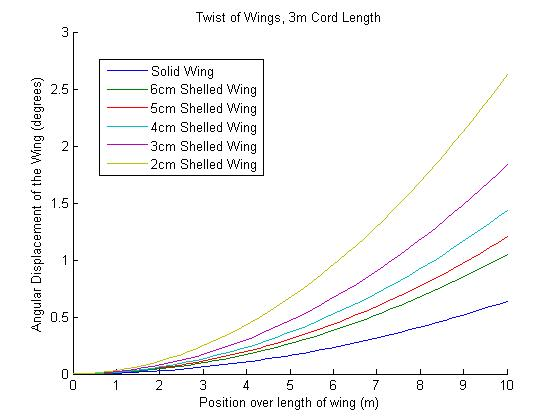
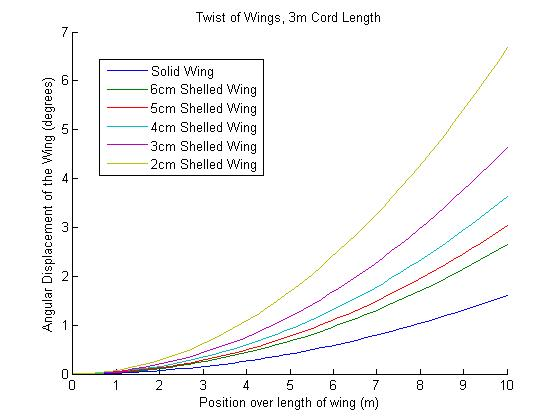
updated 3m Cord Twist graph

diff --git a/airfoil.m b/airfoil.m
@@ -25,15 +25,15 @@ alpha_initial = 0.1; %initial angle of attack in radians
 % 
 % % 1cm shelled hollow wing
 % [X3, T3, Phi3, PhiTotal3, LiftForce3, disp3, FOS3] = calculation(20.4123, 0.0016, 0.0016, 0, 10, 1, 0.4679);
-% 
-% % 6cm shelled 3m cord
-% [X4, T4, Phi4, PhiTotal4, LiftForce4, disp4, FOS4] = calculation(61.2347, 0.2275, 0.2275, 0, 10, 3, 1.4598);
-% 
-% % 3m cord, solid wing
-% [X5, T5, Phi5, PhiTotal5, LiftForce5, disp5, FOS5] = calculation(61.2347, 0.3731, 0.3731, 0, 10, 3, 1.4598);
-% 
-% % 5cm shelled 3m cord
-% [X6, T6, Phi6, PhiTotal6, LiftForce6, disp6, FOS6] = calculation(61.2347, 0.1987,  0.1987, 0, 10, 3, 1.4598);
+
+% 6cm shelled 3m cord
+[X4, T4, Phi4, PhiTotal4, LiftForce4, disp4, FOS4] = calculation(61.2347, 0.2275, 0.2275, 0.2234, 10, 3, 1.4598);
+
+% 3m cord, solid wing
+[X5, T5, Phi5, PhiTotal5, LiftForce5, disp5, FOS5] = calculation(61.2347, 0.3731, 0.3731,  0.3676, 10, 3, 1.4598);
+
+% 5cm shelled 3m cord
+[X6, T6, Phi6, PhiTotal6, LiftForce6, disp6, FOS6] = calculation(61.2347, 0.1987,  0.1987, 0.1950, 10, 3, 1.4598);
 
 % 4cm shelled 3m cord
 [X7, T7, Phi7, PhiTotal7, LiftForce7, disp7, FOS7] = calculation(61.2347, 0.1665,  0.1665, 0.1634, 10, 3, 1.4598);
@@ -64,18 +64,18 @@ alpha_initial = 0.1; %initial angle of attack in radians
 % xlabel('Position over length of wing (m)')
 % ylabel('Angular Displacement of the Wing (degrees)')
 % 
-% figure 
-% hold all
-% plot(X5, PhiTotal5*180/pi)
-% plot(X4, PhiTotal4*180/pi)
-% plot(X6, PhiTotal6*180/pi)
-% plot(X7, PhiTotal7*180/pi)
-% plot(X8, PhiTotal8*180/pi)
-% plot(X9, PhiTotal9*180/pi)
-% title('Twist of Wings, 3m Cord Length') 
-% legend( 'Solid Wing', '6cm Shelled Wing','5cm Shelled Wing', '4cm Shelled Wing', '3cm Shelled Wing', '2cm Shelled Wing', 'Location', 'Best')
-% xlabel('Position over length of wing (m)')
-% ylabel('Angular Displacement of the Wing (degrees)')
+figure 
+hold all
+plot(X5, PhiTotal5*180/pi)
+plot(X4, PhiTotal4*180/pi)
+plot(X6, PhiTotal6*180/pi)
+plot(X7, PhiTotal7*180/pi)
+plot(X8, PhiTotal8*180/pi)
+plot(X9, PhiTotal9*180/pi)
+title('Twist of Wings, 3m Cord Length') 
+legend( 'Solid Wing', '6cm Shelled Wing','5cm Shelled Wing', '4cm Shelled Wing', '3cm Shelled Wing', '2cm Shelled Wing', 'Location', 'Best')
+xlabel('Position over length of wing (m)')
+ylabel('Angular Displacement of the Wing (degrees)')
 
 figure
 hold all
